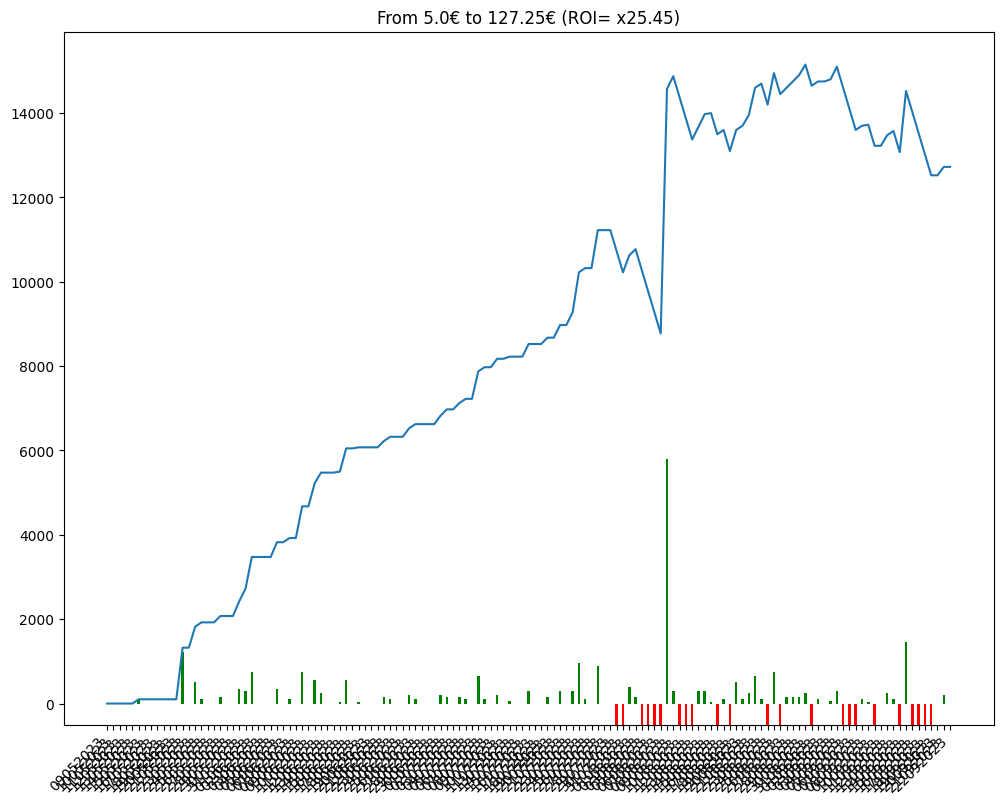
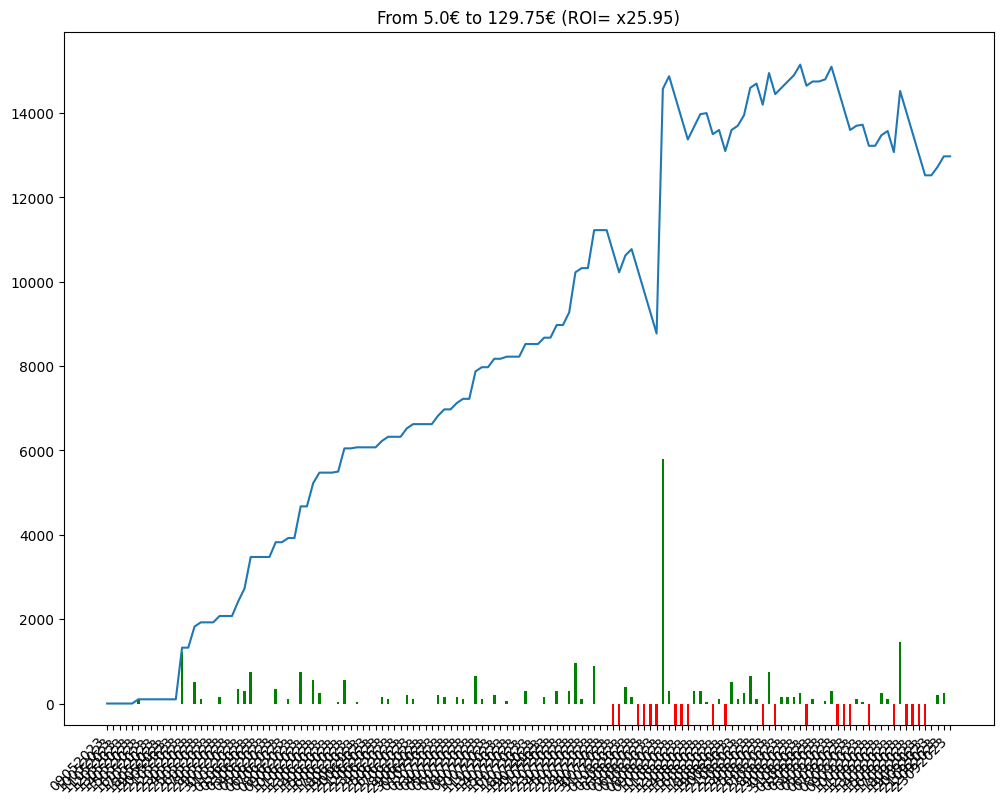
comment from python script

diff --git a/bethistory.html b/bethistory.html
@@ -86,7 +86,8 @@
             En observant la courbe 🤔, on peut avoir une idée visuelle de l'évolution des gains et ainsi évaluer le model utilisé 🧑🏫.
         </p>
         
-        <img src = "/candle.png" alt="candle chart"/><table><tr><td>Chevaux joués</td><td>Gains</td><td>URL Circuits</td></tr><tr><td>6 - OFFICER OF STATE</td><td>0</td><td><a href=https://www.pmu.fr/turf/22092023/r4/c5 target="_blank">https://www.pmu.fr/turf/22092023/r4/c5</a></td></tr>
+        <img src = "/candle.png" alt="candle chart"/><table><tr><td>Chevaux joués</td><td>Gains</td><td>URL Circuits</td></tr><tr><td>1 - ZAZU AA</td><td>0</td><td><a href=https://www.pmu.fr/turf/23092023/r2/c7 target="_blank">https://www.pmu.fr/turf/23092023/r2/c7</a></td></tr>
+<tr><td>6 - OFFICER OF STATE</td><td>+250</td><td><a href=https://www.pmu.fr/turf/22092023/r4/c5 target="_blank">https://www.pmu.fr/turf/22092023/r4/c5</a></td></tr>
 <tr><td>8 - MISS BELIEVE</td><td>+200</td><td><a href=https://www.pmu.fr/turf/21092023/r3/c1 target="_blank">https://www.pmu.fr/turf/21092023/r3/c1</a></td></tr>
 <tr><td>5 - YOUM'S FLOWER</td><td>+0</td><td><a href=https://www.pmu.fr/turf/20092023/r2/c1 target="_blank">https://www.pmu.fr/turf/20092023/r2/c1</a></td></tr>
 <tr><td>4 - FOR WIN</td><td>-500</td><td><a href=https://www.pmu.fr/turf/19092023/r3/c5 target="_blank">https://www.pmu.fr/turf/19092023/r3/c5</a></td></tr>
